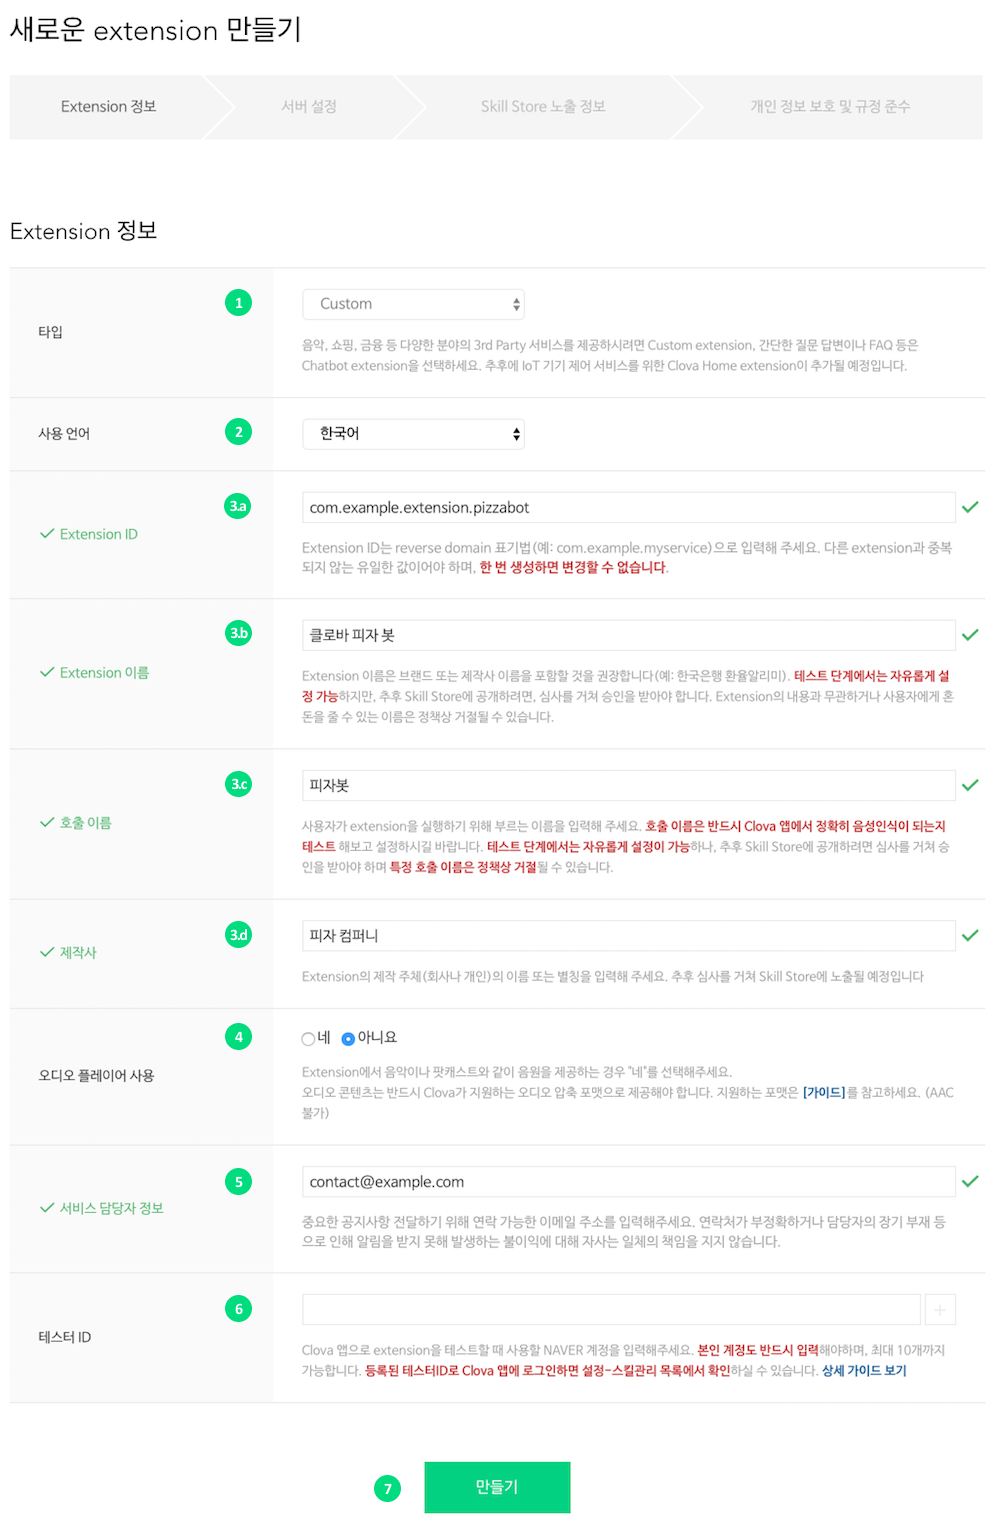
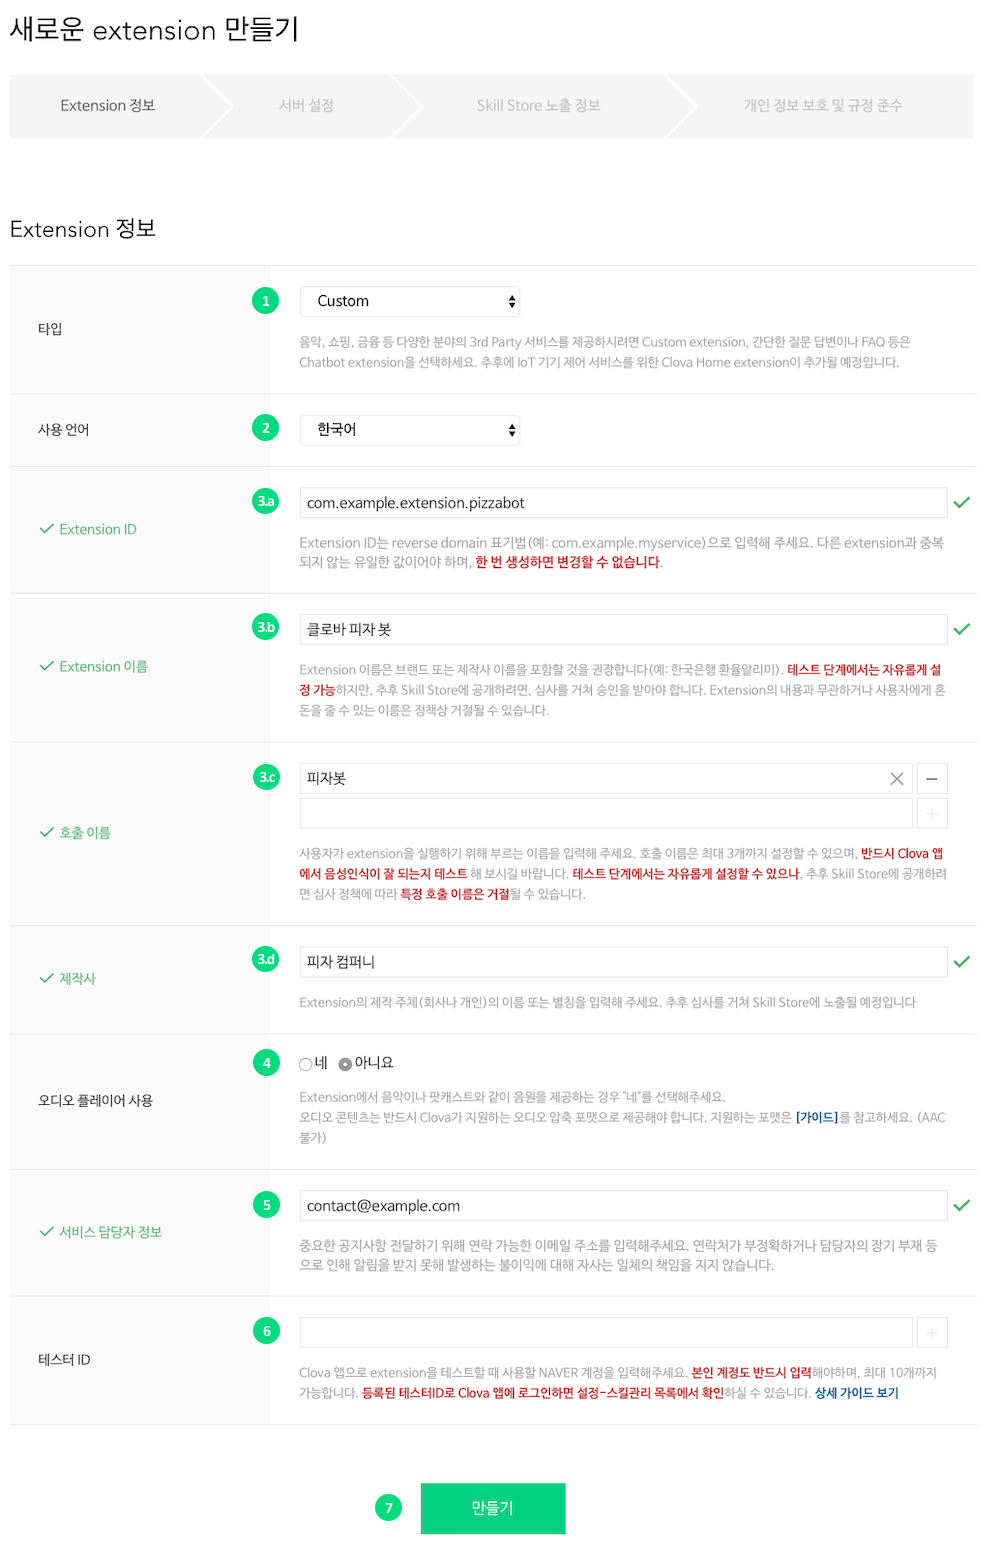
Update description for extension invocation name

diff --git a/ko-KR/DevConsole/Guides/CEK/Register_Extension.md b/ko-KR/DevConsole/Guides/CEK/Register_Extension.md
@@ -36,7 +36,7 @@ Extension을 등록하는 과정에서 가장 먼저 할 일은 등록할 extens
     <ol>
       <li><strong>{{ book.DevConsole.cek_id }}</strong>: Extension의 고유 ID입니다. Reverse domain name 표기 형식(예: com.example.extension.pizzabot)으로 입력합니다.</li>
       <li><strong>{{ book.DevConsole.cek_name }}</strong>: Extension의 이름입니다. 추후 Clova Skill Store에 노출됩니다.</li>
-      <li><strong>{{ book.DevConsole.cek_invocation_name }}</strong>: 사용자가 extension을 호출할 때 부르는 이름입니다. 일반적으로 보유하고 있는 서비스, 회사 또는 조직의 이름이 될 수 있으나 사용자의 편의 등을 위해 간결하고 특색있는 단어를 지정하는 것이 좋습니다. 범용적인 단어나 타사의 이름이나 서비스에 해당하는 용어는 사용할 수 없습니다. <strong>{{ book.DevConsole.cek_invocation_name }}</strong>은 extension 심사 시 검수받게 됩니다.</li>
+      <li><strong>{{ book.DevConsole.cek_invocation_name }}</strong>: 사용자가 extension을 호출할 때 부르는 이름입니다. 한 개 이상 최대 세 개까지 {{ book.DevConsole.cek_invocation_name }}을 등록할 수 있습니다. 일반적으로 보유하고 있는 서비스, 회사 또는 조직의 이름이 될 수 있으나 사용자의 편의 등을 위해 간결하고 특색있는 단어를 지정하는 것이 좋습니다. 범용적인 단어나 타사의 이름이나 서비스에 해당하는 용어는 사용할 수 없습니다. <strong>{{ book.DevConsole.cek_invocation_name }}</strong>은 extension 심사 시 검수받게 됩니다.</li>
       <li><strong>{{ book.DevConsole.cek_provider }}</strong>: Extension의 제작 주체(회사나 개인)의 이름 또는 별칭을 입력합니다. 추후 Skill Store에 노출되며, extension 승인 과정에서 심사를 받게 됩니다.</li>
     </ol>
   </li>

diff --git a/ko-KR/Document_Info.md b/ko-KR/Document_Info.md
@@ -21,6 +21,14 @@
   </thead>
   <tbody>
     <tr>
+      <td>v3.40.2</td><td>미적용</td><td>2018-10-13</td>
+      <td>
+        <ul>
+          <li>[Dev. Console] <a href="/DevConsole/Guides/CEK/Register_Extension.html#InputExtensionInfo">Extension 기본 정보 입력</a>에 호출 이름을 한 개 이상 최대 세 개까지 등록할 수 있음을 명시</li>
+        </ul>
+      </td>
+    </tr>
+    <tr>
       <td>v3.40.1</td><td>미적용</td><td>2018-10-05</td>
       <td>
         <ul>
